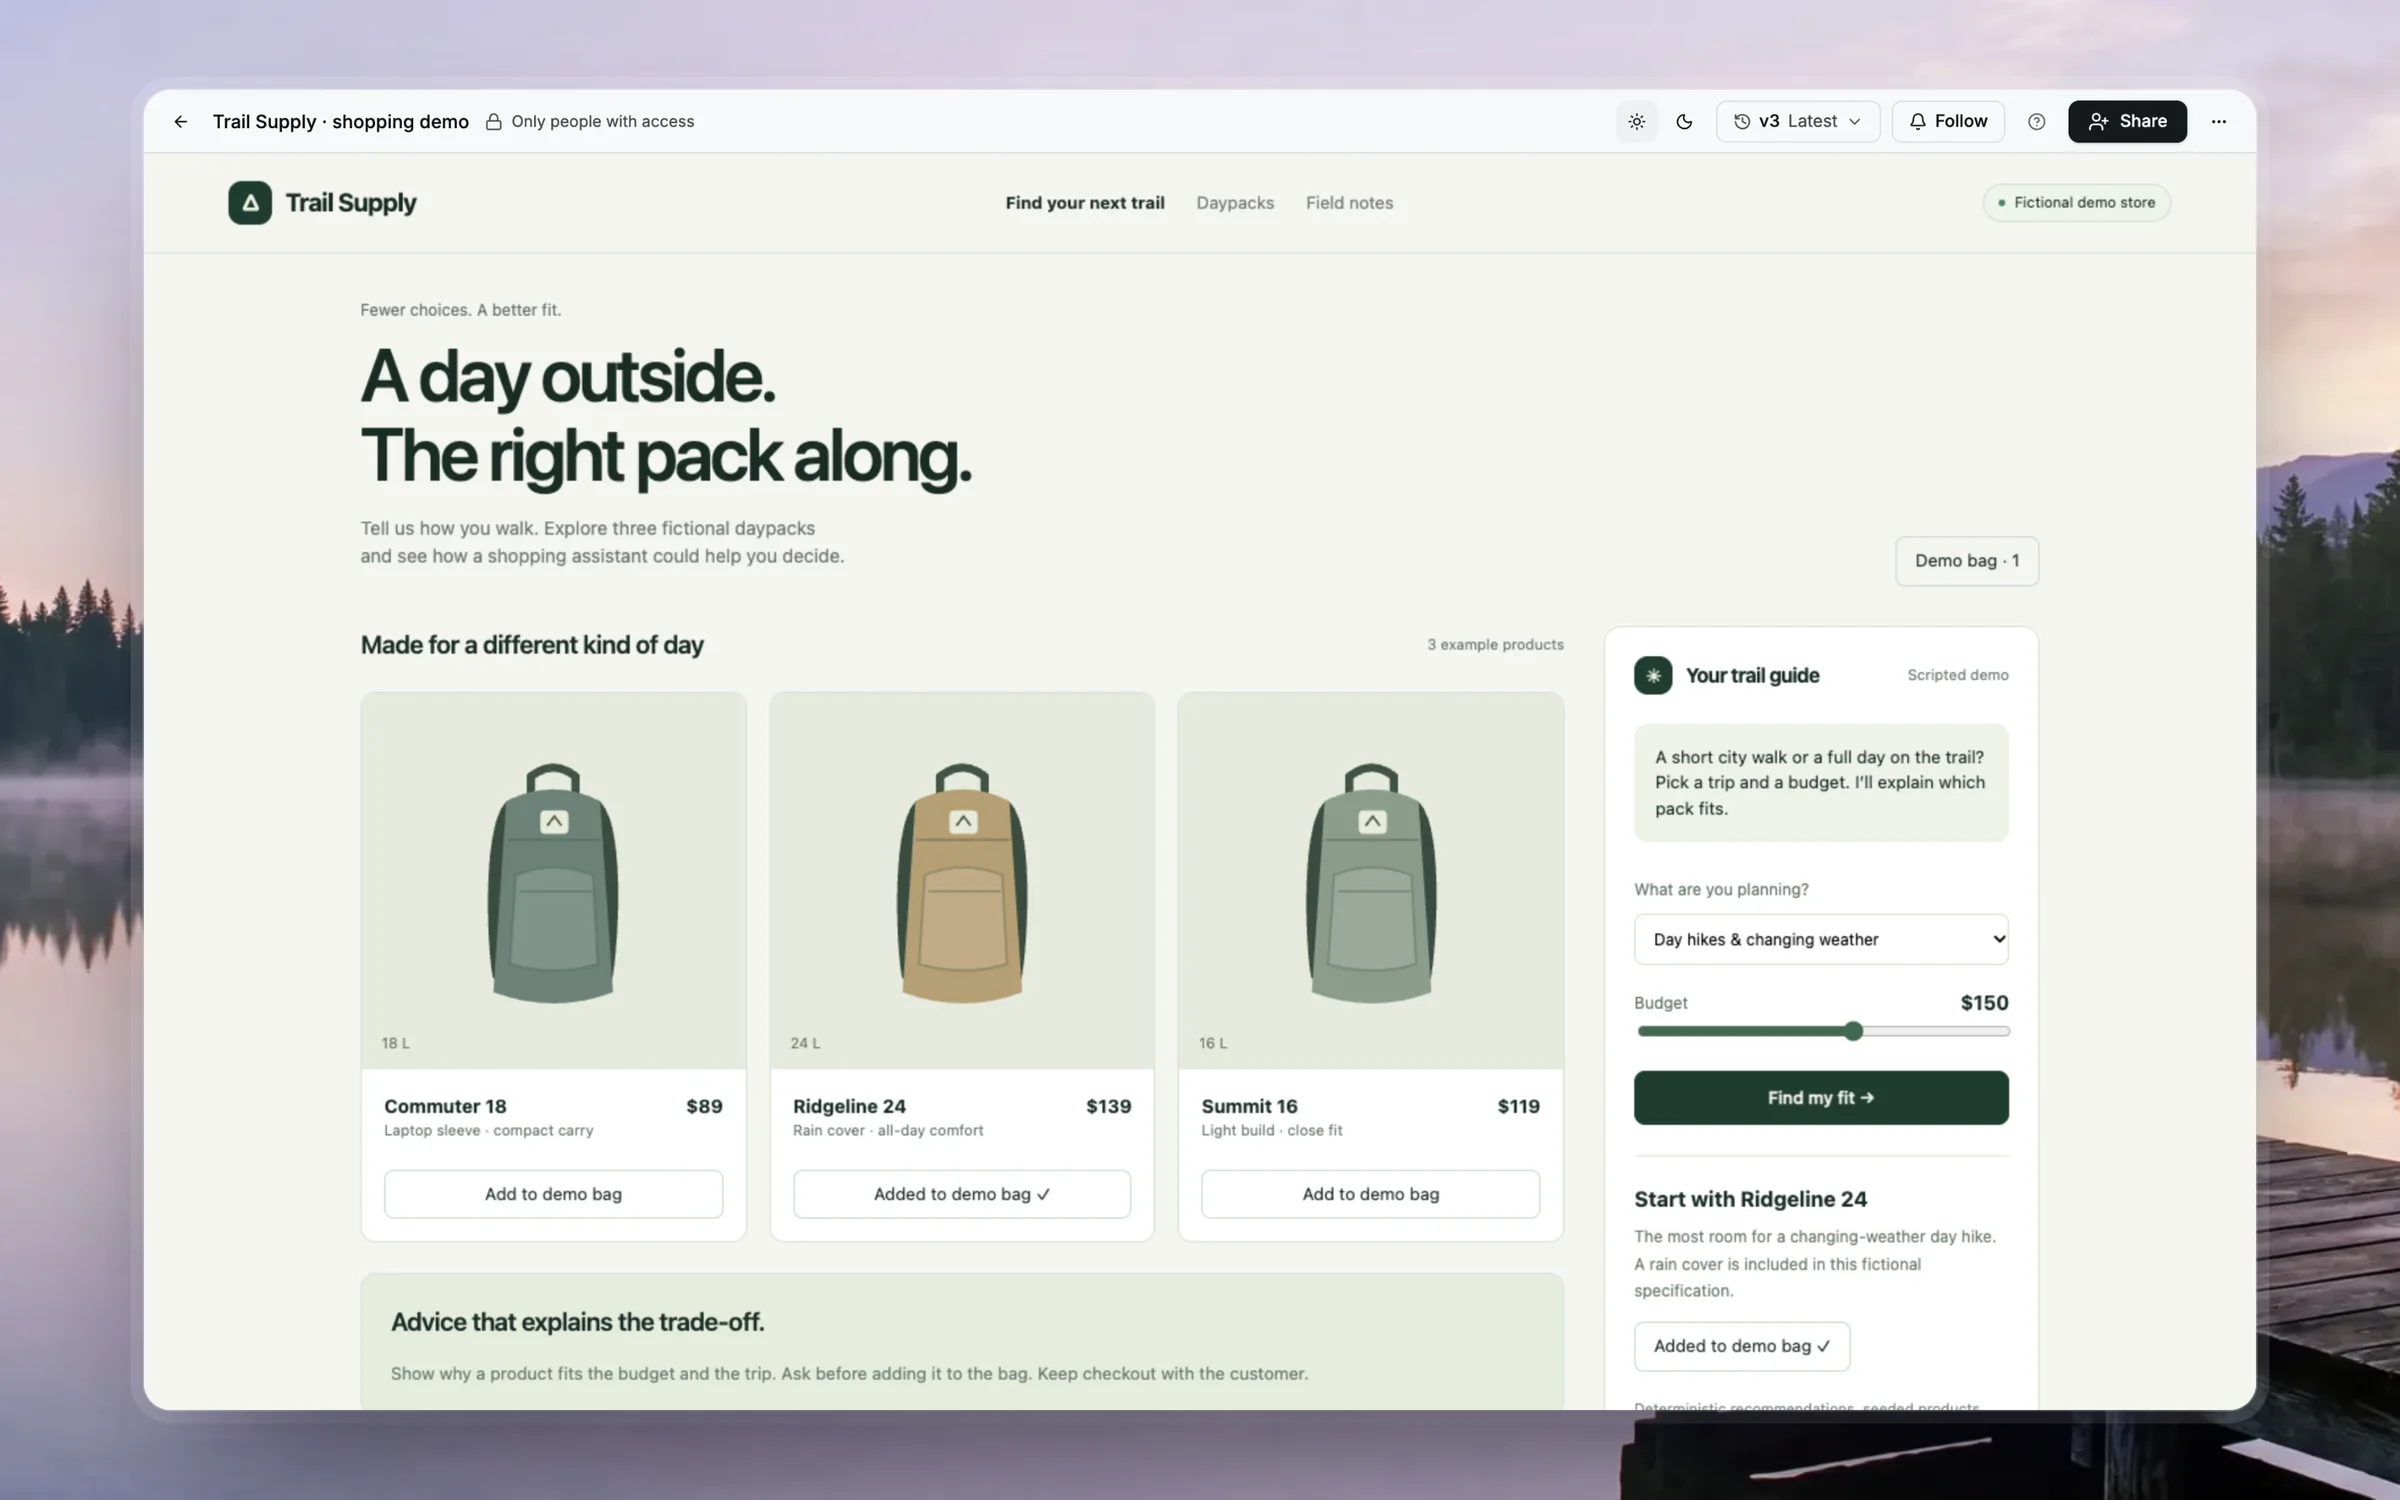
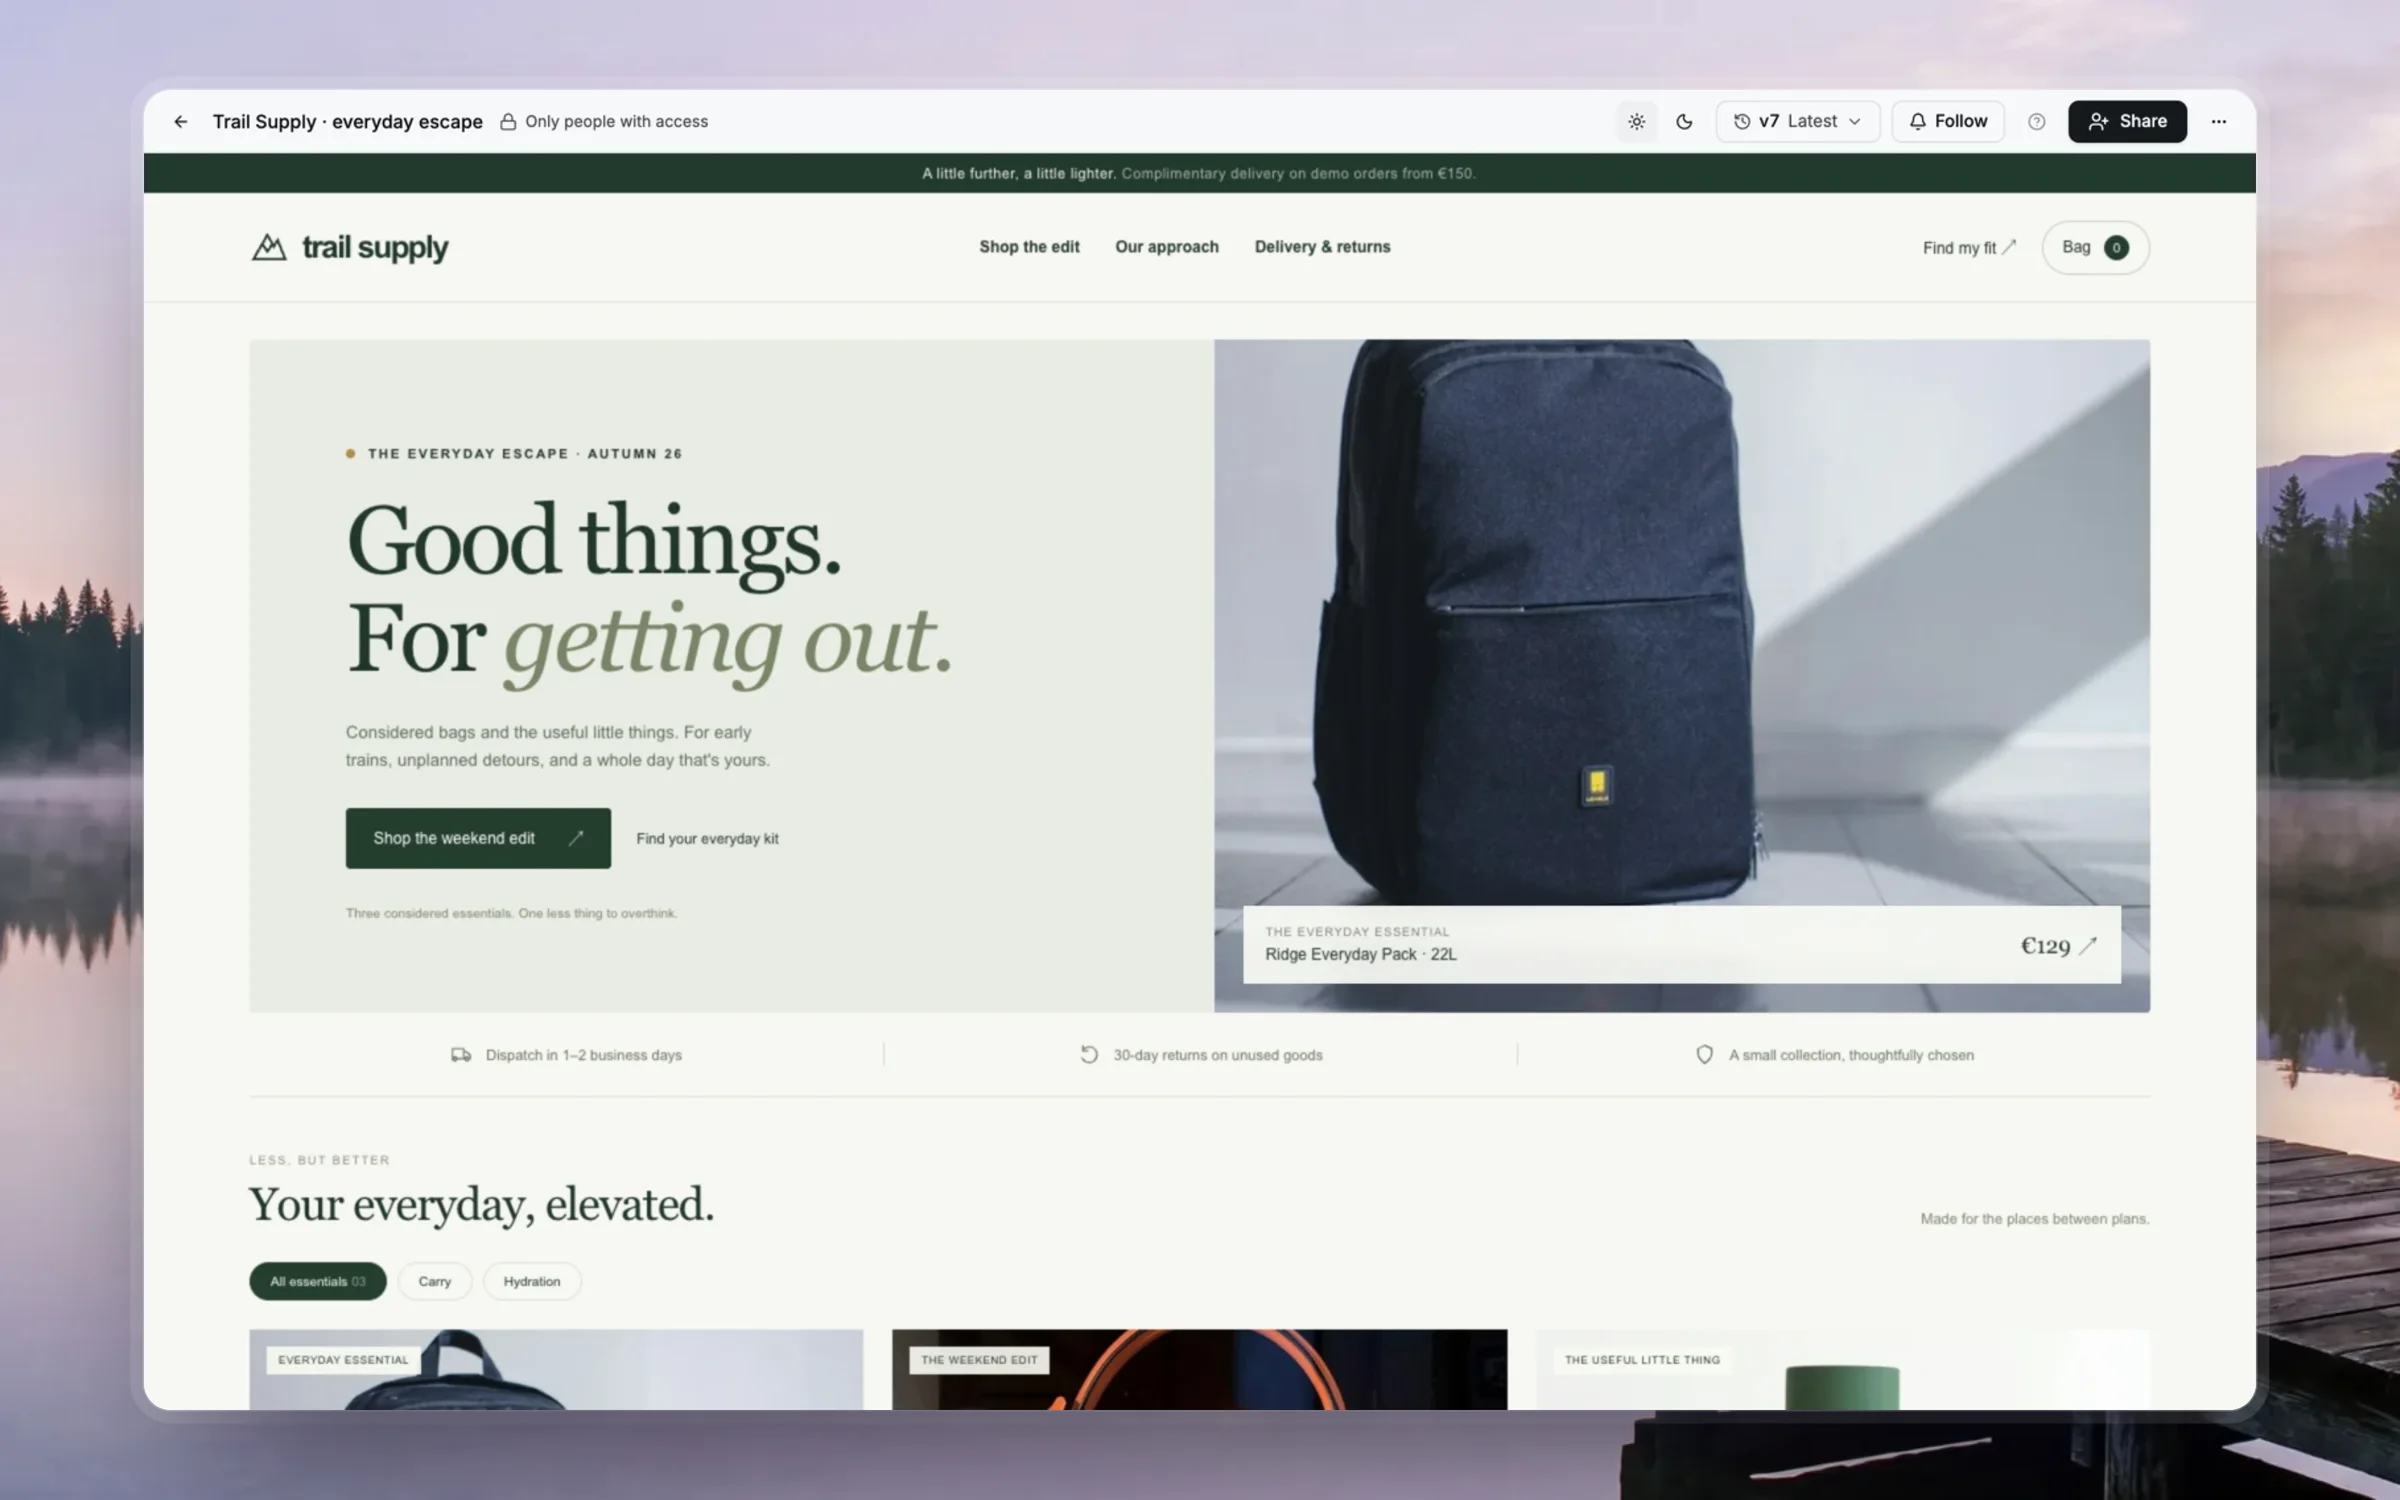
Show a real website widget in the shopping use case

diff --git a/src/use-case-guides.ts b/src/use-case-guides.ts
@@ -89,10 +89,10 @@ export const useCaseGuides: readonly UseCaseGuide[] = [
     emphasis: "from your catalog.",
     description:
       "Plan an AI shopping assistant for your website: catalog-based recommendations, a published agent widget and explicit boundaries for cart and order actions.",
-    image: "/screens/highlight-shopping.webp",
-    alt: "Trail Supply demo storefront with a trip selector, budget controls and a recommended backpack",
+    image: "/screens/highlight-widget.webp",
+    alt: "Fictional Trail Supply store with the actual AgenticOS widget recommending a daypack",
     caption:
-      "Trail Supply is a fictional store app. Recommendations are deterministic, its bag is a demo and it contains no live agent widget, checkout or real orders.",
+      "Trail Supply is a fictional store. Its actual AgenticOS widget answered from a seeded catalog in a recorded local model run. The separate storefront App and Kit Studio use deterministic calculations; no real inventory, orders or payments are connected.",
     input:
       "A maintained product catalog, a shopper's needs and constraints, and a clear policy for unavailable information.",
     result:
@@ -114,7 +114,7 @@ export const useCaseGuides: readonly UseCaseGuide[] = [
       },
       {
         title: "Keep a recommendation separate from an order",
-        body: "First verify read-only recommendations. Adding to a real cart or placing an order needs store-specific tools, permissions and user confirmation appropriate to the action. The Trail Supply preview demonstrates the proposed interaction, not those integrations.",
+        body: "First verify read-only recommendations. Adding to a real cart or placing an order needs store-specific tools, permissions and user confirmation appropriate to the action. The recorded Trail Supply widget answers from catalog facts in its published instructions. Its storefront bag is a local demo, without real inventory or order tools.",
       },
     ],
     questions: [
